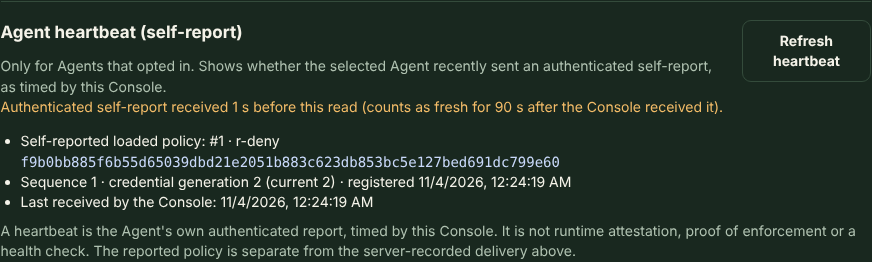
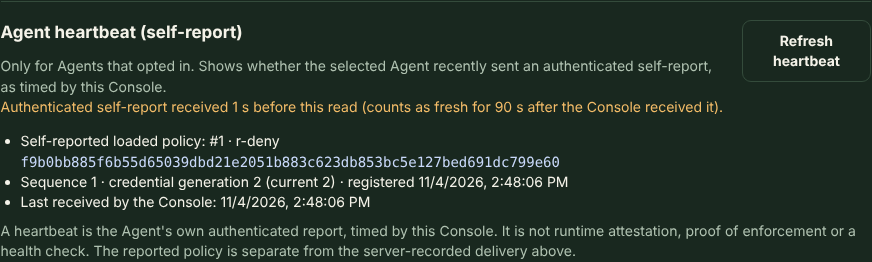
Update managed Agent heartbeat evidence after the recovery fix
SQLite (36 checks) and TLS PostgreSQL (48 checks, including Console backup and restore) acceptance runs of commit 6bc29ea6.

Changed region(s): [[0.5573, 0.6718, 0.6812, 0.7328], [0.3406, 0.7328, 0.4335, 0.7939]]

diff --git a/docs/operations/evidence/AGENT_HEARTBEAT_2026-11-04.md b/docs/operations/evidence/AGENT_HEARTBEAT_2026-11-04.md
@@ -11,10 +11,10 @@ screenshots:
 | --- | --- |
 | Platform | hosted Ubuntu 24.04 x86_64 container, non-root user (not a physical host, not WSL2) |
 | Base | main `2a5bf677` (reviewed successor of `f66a2242`) |
-| Source | commit `2543701c`, tree `564b8189ced4ec8637d6185392268922bcea55d5`, clean |
[1 lines of base64/hex data omitted]
+| Source | commit `6bc29ea6` (recovery fix on top of the PR's `0b6c4cf4`), tree `0ab138feb595d685da78aa023c332b78629b0ed1`, clean |
[2 lines of base64/hex data omitted]
-| Stores | disposable SQLite file; disposable PostgreSQL 16.15 cluster on 127.0.0.1 with TLS (owned CA, `sslmode=require`) |
+| Stores | disposable SQLite file; disposable PostgreSQL 16.15 cluster on 127.0.0.1 with TLS (owned CA, `sslmode=require`), source and restore databases owned by a non-superuser role |
 | Agents | two unchanged `agentfw serve` processes on loopback: `edge-hb` with `SOUP_MANAGED_AGENT_HEARTBEAT=1` (interval 5 s), `edge-legacy` without |
 | Runtime witness | each Agent's own `/health` managed policy and a `/hook` PreToolUse decision |
 | Browser | Chromium (Playwright) as Viewer |
@@ -27,8 +27,8 @@ retained report, screenshot or first-run Agent log contains a credential.
 
 ## Result: `scripts/console-agent-heartbeat-acceptance.py` passed
 
-SQLite: **36 checks**. PostgreSQL: **37 checks** (adds `migrate` creating the
-observation schema).
+SQLite: **36 checks**. PostgreSQL: **48 checks** (adds `migrate` creating the
+observation schema and Console recovery with it).
 
 | Step | Observed on both stores |
 | --- | --- |
@@ -41,8 +41,9 @@ observation schema).
 | Offline | `edge-hb` stopped: `stale` at age 91 s (Console receipt time only) |
 | Restart | a new `edge-hb` process registers a new instance and is `fresh` again with a new low sequence |
 | Console outage | Console stopped for 12 s: `/hook` still denies with the same policy digest; after restart `fresh` again (SQLite: the Agent re-registered after `not_registered`; PostgreSQL: registration persisted) |
+| Recovery (PostgreSQL) | the source holds `edge-hb`'s observation; with the Console stopped, `console_recovery` refuses a backup while an unknown schema exists and while the observation schema has an extra table; then backs up and restores (rows and sequences verified); the restored database has no observation schema; a Console on it reports `unavailable` for both Agents; `migrate` recreates the table empty; the next read is not fresh, `edge-legacy` reads `unsupported`, and `edge-hb` registers again after the restore and is `fresh` |
 | Rotation | rotation to generation 2: the old credential gets 401 at once; after the token file is replaced the same process registers under generation 2 and is `fresh` |
-| Browser | the heartbeat section shows the authenticated self-report with its age, the self-reported policy and "not runtime attestation", never "healthy"; `edge-legacy` reads "Not opted in … unknown"; after revocation it reads "Credential revoked"; no write request and no browser storage |
+| Browser | the heartbeat section shows the authenticated self-report with its age, the self-reported policy and "not runtime attestation", never "healthy"; `edge-legacy` reads "No heartbeat registration … unknown"; after revocation it reads "Credential revoked"; no write request and no browser storage |
 | Revocation | status `revoked`; the revoked credential gets 401; `/hook` still denies with the last verified policy |
 
 Screenshots: [fresh](agent-heartbeat-2026-11-04/postgres-heartbeat-fresh.png),
@@ -62,6 +63,10 @@ Screenshots: [fresh](agent-heartbeat-2026-11-04/postgres-heartbeat-fresh.png),
 - `agent_heartbeat` unit tests (3): fixed 90 s expiry on server receipt time
   (including a receipt time after the read time), every status, decision
   table for replay, supersession, epoch and identity, strict shapes.
+- `scripts/tests/test_console_recovery.py` (19, including 3 new): the
+  catalog accepts only the exact reviewed observation schema and still
+  refuses any other schema; a restore target with it is not empty; an archive
+  listing that contains it is refused.
 - `agentfw` `managed_heartbeat` unit test: strict opt-in values, bounded
   interval, random instance IDs.
 - `scripts/tests/test_console_heartbeat_browser.py` (7, synthetic fixtures):
